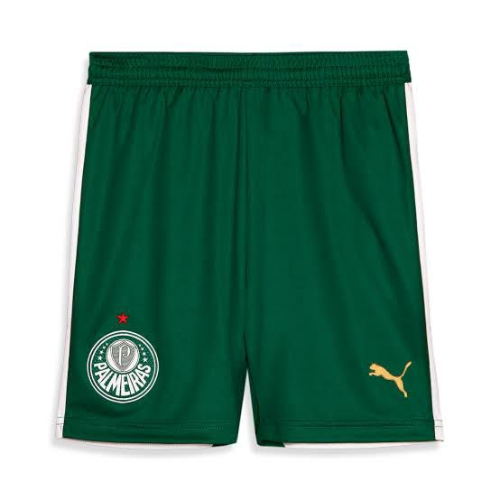
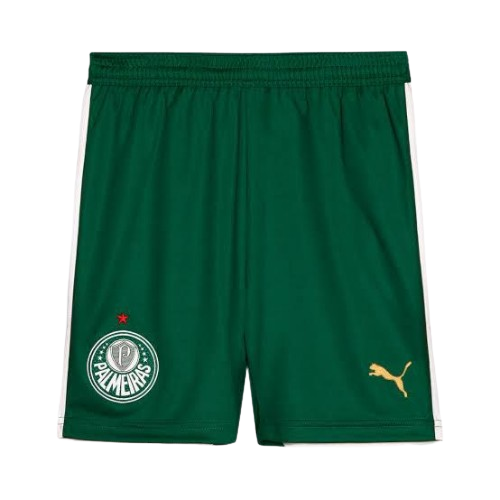
finalizacao da home e adicao das imagens sem fundo

Changed region(s): [[0.09, 0.12, 0.9, 0.93], [0.18, 0.09, 0.84, 0.15]]

diff --git a/assets/home.html b/assets/home.html
@@ -110,8 +110,8 @@
                 <div class="card mb-4">
                     <img src="/assets/img/Camisas/camisa arsenal.png" class="d-block w-100" alt="Camisa Arsenal - Frente">
                     <div class="card-body">
-                        <h5 class="card-title">Arsenal 21/22
-                            <i class="fas fa-star"></i> 
+                        <h5 class="card-title">
+                            <i class="fas fa-star"></i> Arsenal 21/22
                         </h5>
                         
                         <p class="card-text">
@@ -143,7 +143,7 @@
                     <img src="/assets/img/Camisas/camisa aston villa.png" class="d-block w-100" alt="Camisa Corinthians - Frente">
                     <div class="card-body">
                         <h5 class="card-title">
-                            <i class="fas fa-star"></i> Aston Villa
+                            <i class="fas fa-star"></i> Aston Villa 22/23
                         </h5>
                         
                         <p class="card-text">
@@ -162,13 +162,13 @@
         <div class="row">
             <div class="col-md-4">
                 <div class="card mb-4">
-                    <img src="/assets/img/shorts(home)/shorts 23 lebron (1).jpg" class="d-block w-100" alt="Shorts Lebron - Frente">
+                    <img src="/assets/img/Shorts/corinthians_24_25jogador2.png" class="d-block w-100" alt="Shorts Lebron - Frente">
                     <div class="card-body">
-                        <h5 class="card-title">
-                            <i class="fas fa-star"></i> Nike ZoomX StreakFly
+                        <h5 class="card-title"> 
+                            <i class="fas fa-star"></i> Corinthians 24/25 Jogador
                         </h5>
                         
-                        <p class="card-text">Descrição do shorts Lebron.</p>
+                        <p class="card-text">Os shorts da temporada 2024/25 do Corinthians apresentam um design moderno e elegante, com detalhes em preto e branco que remetem às cores tradicionais do clube. Feitos em tecido leve e respirável, oferecem conforto e alta performance durante os jogos. O escudo do time e o logotipo do patrocinador completam o visual, garantindo autenticidade.</p>
                         <a    href="/assets/html/setorCamisas.html" class="btn btn-ver-mais d-flex justify-content-center align-items-center">Ver mais</a>
                     </div>
                 </div>
@@ -176,13 +176,13 @@
 
             <div class="col-md-4">
                 <div class="card mb-4">
-                    <img src="/assets/img/shorts(home)/shorts 23 lebron (1).jpg" class="d-block w-100" alt="Shorts Lebron - Frente">
+                    <img src="/assets/img/Shorts/saopaulo_24_25_branco.png" class="d-block w-100" alt="Shorts Lebron - Frente">
                     <div class="card-body">
                         <h5 class="card-title">
-                            <i class="fas fa-star"></i> Nike ZoomX StreakFly
+                            <i class="fas fa-star"></i> São Paulo 24/25 Jogador
                         </h5>
                         
-                        <p class="card-text">Descrição do shorts Lebron.</p>
+                        <p class="card-text">Os shorts do São Paulo para a temporada 2024/25 destacam-se pelo design clássico em branco, com finas listras em vermelho e preto, representando as cores do clube. Produzidos em material leve e de alta durabilidade, garantem conforto e liberdade de movimento. O escudo do São Paulo e o logotipo do patrocinador agregam autenticidade ao modelo.</p>
                         <a    href="/assets/html/setorCamisas.html" class="btn btn-ver-mais d-flex justify-content-center align-items-center">Ver mais</a>
                     </div>
                 </div>
@@ -190,13 +190,13 @@
 
             <div class="col-md-4">
                 <div class="card mb-4">
-                    <img src="/assets/img/shorts(home)/shorts 23 lebron (1).jpg" class="d-block w-100" alt="Shorts Lebron - Frente">
+                    <img src="/assets/img/Shorts/palmeiras_24_25_3jogador.png" class="d-block w-100" alt="Shorts Lebron - Frente">
                     <div class="card-body">
                         <h5 class="card-title">
-                            <i class="fas fa-star"></i> Nike ZoomX StreakFly
+                            <i class="fas fa-star"></i> Palmeiras 24/25 Jogador
                         </h5>
                         
-                        <p class="card-text">Descrição do shorts Lebron.</p>
+                        <p class="card-text">Os shorts do Palmeiras para a temporada 2024/25 apresentam um design elegante em verde tradicional, com detalhes em branco que destacam o estilo do clube. Confeccionados em tecido leve e respirável, proporcionam conforto e desempenho superior. O escudo do Palmeiras e o logo do patrocinador complementam o visual com autenticidade.</p>
                         <a    href="/assets/html/setorCamisas.html" class="btn btn-ver-mais d-flex justify-content-center align-items-center">Ver mais</a>
                     </div>
                 </div>
